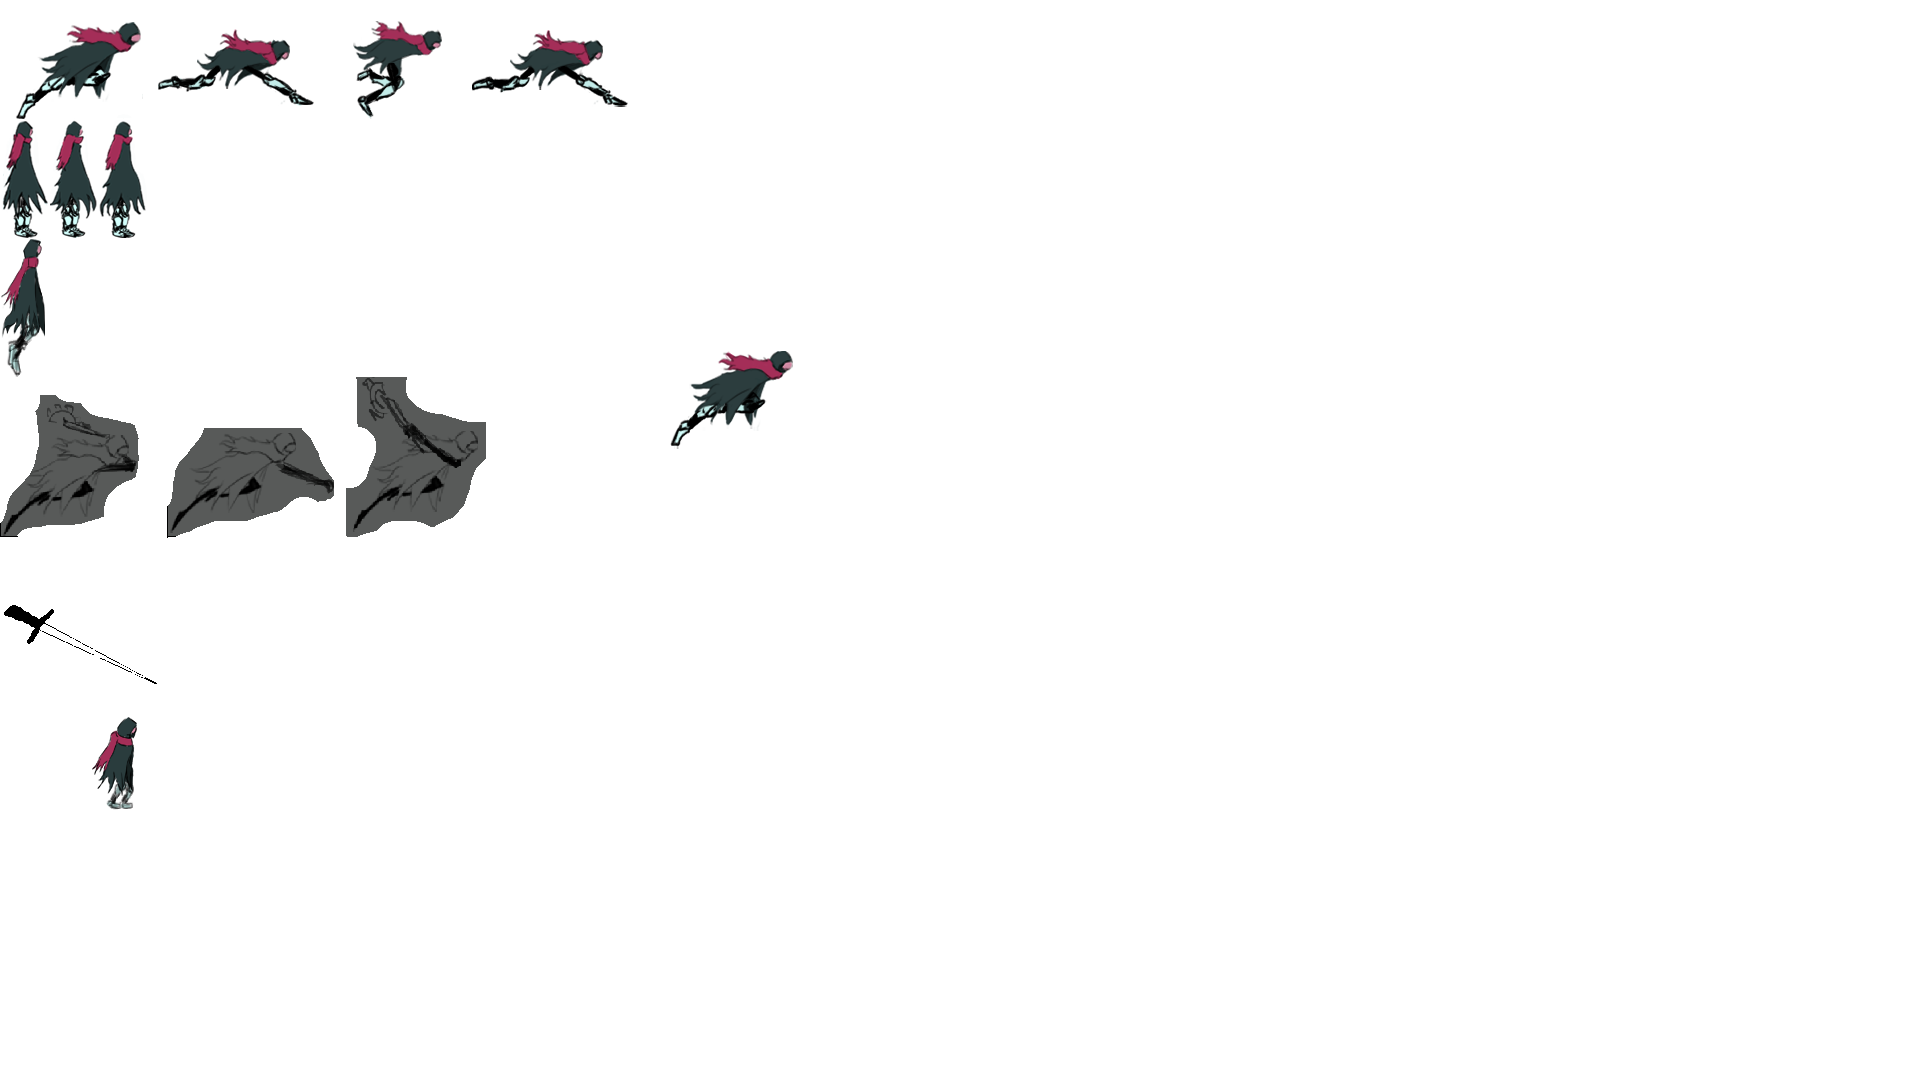
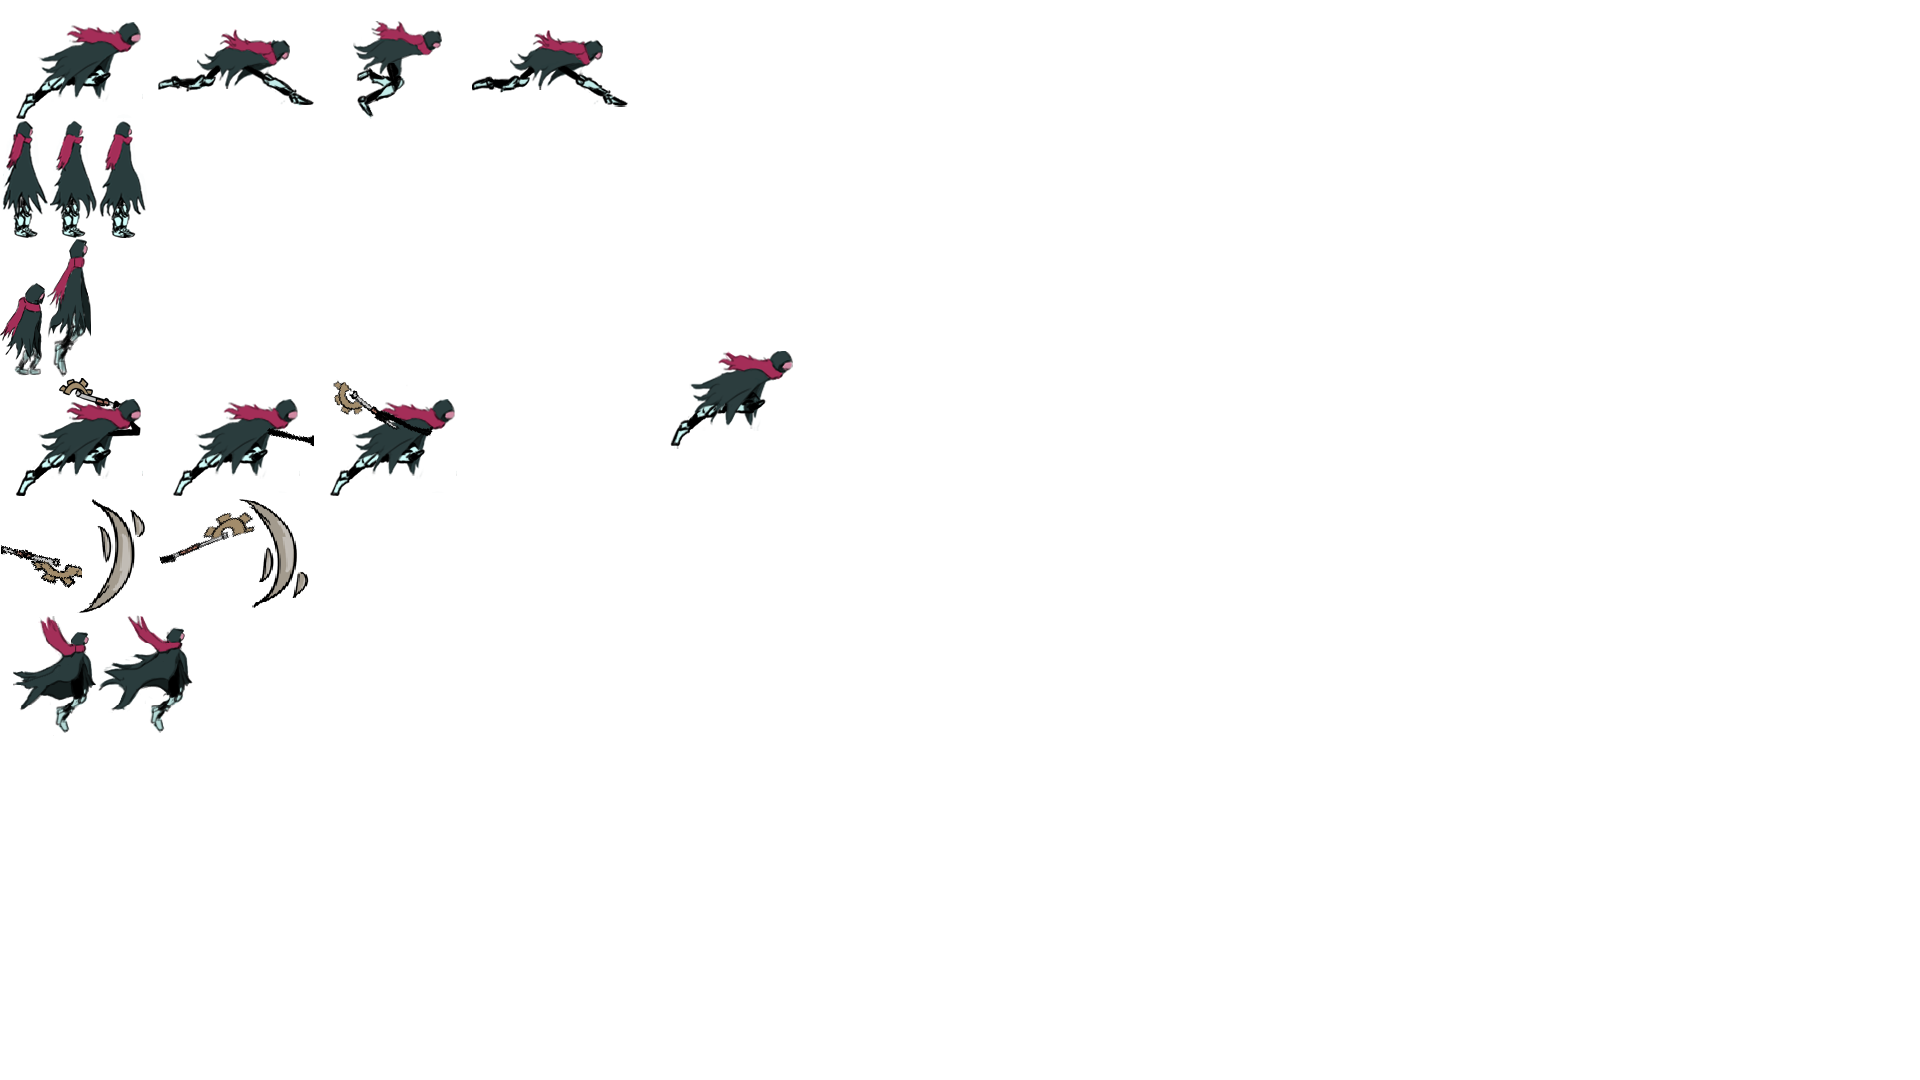
player animations done

Changed region(s): [[0.0, 0.2139, 0.25, 0.7333]]

diff --git a/projet-mini-studio/scr/Player.cpp b/projet-mini-studio/scr/Player.cpp
@@ -3,7 +3,8 @@
 Player::Player(Texture& tex, Map& map)
     : Entity(tex), grapple(500.0f, map), map(map), speed(450), velocity(Vector2f(0, 0)), canJump(true), jumpNum(0), canDash(true), dashing(false), dashDirection(Vector2f(0, 0)), lastInputDirection('N'), dashDuration(0), dashCooldown(0.8), dashTimer(0), grapplingTouched(false), leftButtonHold(false), grappleLength(0.0f)
 {
-   
+
+    attackSprite.setTexture(tex);
     speed = 450;
     velocity = Vector2f(0, 0);
     this->map = map;
@@ -17,6 +18,11 @@ Player::Player(Texture& tex, Map& map)
     }
     heartempty.setTexture(heartemptyTexure);
 
+    hurtbox.setRadius(50);
+    hurtbox.setFillColor(Color::Transparent);
+    hurtbox.setOutlineColor(Color::Red);
+    hurtbox.setOutlineThickness(1.f);
+
 }
 
 Player::Player(const Vector2f& size, const Color& color, Map& map)
@@ -26,11 +32,11 @@ Player::Player(const Vector2f& size, const Color& color, Map& map)
     velocity = Vector2f(0, 0);
     this->map = map;
     playerView.setSize(1920, 1080);
-    attackTexture.create(size.x * 1.5f, size.y * 1.5f);
+    //attackTexture.create(size.x * 1.5f, size.y * 1.5f);
     Image image;
     image.create(size.x * 1.5f, size.y * 1.5f, Color::Blue);
-    attackTexture.update(image);
-    attackSprite.setTexture(attackTexture);
+    /*attackTexture.update(image);
+    attackSprite.setTexture(attackTexture);*/
     if (!heartTexure.loadFromFile("assets/ui/heart.png")) {
         cerr << "Erreur lors du chargement du coeur." << endl;
     }
@@ -87,6 +93,7 @@ float calculateAngle(const Vector2f& point1, const Vector2f& point2) {
 
 void Player::update(float dt)
 {
+    hurtbox.setPosition(getSprite().getPosition().x - hurtbox.getRadius(), getSprite().getPosition().y - hurtbox.getRadius());
     invincibilityAfterHit(dt);
     handleGrapplePull(dt);
     handleMovement(dt);
@@ -104,7 +111,7 @@ void Player::updateCamera()
 
     cameraPosition.x = playerPosition.x;
 
-	cameraPosition.y = 540;
+    cameraPosition.y = 540;
 
     playerView.setCenter(cameraPosition);
 }
@@ -200,6 +207,7 @@ void Player::handleNormalMovement(float dt)
     float jumpCooldownTime = 0.4f;
     if ((Keyboard::isKeyPressed(Keyboard::Space) || Joystick::isButtonPressed(0, 0)) && canJump && jumpCooldownClock.getElapsedTime().asSeconds() >= jumpCooldownTime)
     {
+        jumped = true;
         onGround = false;
         velocity.y = -speed;
         jumpNum++;
@@ -324,7 +332,7 @@ void Player::handleInput(const Event& event, RenderWindow& window, float dt)
     float axisZ = Joystick::getAxisPosition(0, Joystick::Z);
     if (/*Mouse::isButtonPressed(Mouse::Left)*/ Keyboard::isKeyPressed(Keyboard::F) || axisZ < -50) {
         leftButtonHold = true;
-        if (grapple.isStuck()) 
+        if (grapple.isStuck())
         {
             Vector2f stuckPosition = grapple.getStuckPosition();
             Vector2f playerPosition = getSprite().getPosition();
@@ -333,7 +341,7 @@ void Player::handleInput(const Event& event, RenderWindow& window, float dt)
             direction /= grappleLength;
             velocity = direction * speed;
         }
-        else 
+        else
         {
             Vector2f startPosition = getSprite().getPosition();
             Vector2i mousePosition = Mouse::getPosition(window);
@@ -344,7 +352,7 @@ void Player::handleInput(const Event& event, RenderWindow& window, float dt)
             grapple.launch(startPosition, direction);
         }
     }
-    else 
+    else
     {
         leftButtonHold = false;
     }
@@ -646,15 +654,10 @@ void Player::draw(RenderWindow& window)
 }
 
 void Player::handleAttack(float dt) {
-    if ((Mouse::isButtonPressed(Mouse::Left) /*Keyboard::isKeyPressed(Keyboard::F)*/|| Joystick::isButtonPressed(0, 2)) && canAttack) {
+    if ((Mouse::isButtonPressed(Mouse::Left) /*Keyboard::isKeyPressed(Keyboard::F)*/ || Joystick::isButtonPressed(0, 2)) && canAttack) {
         attacking = true;
         canAttack = false;
         attackTimer = 0;
-
-        switch (lastInputDirection) {
-        case('L'): attackDirection = "left"; break;
-        case('R'): attackDirection = "right"; break;
-        }
     }
     attackTimer += dt;
     if (attackTimer >= attackCooldown) canAttack = true;
@@ -662,8 +665,15 @@ void Player::handleAttack(float dt) {
     //attackSprite.setPosition(getSprite().getPosition());
     if (attacking) {
         attackDuration += dt;
-        if (attackDuration < 0.3) getSprite().setTextureRect(attackingFrames[0]);
+        if (attackDuration < 0.3) {
+            getSprite().setTextureRect(attackingFrames[0]);
+            switch (lastInputDirection) {
+            case('L'): attackDirection = "left"; break;
+            case('R'): attackDirection = "right"; break;
+            }
+        }
         if (attackDuration >= 0.3 && attackDuration < 0.4) {
+
             attackHitboxActive = true;
             getSprite().setTextureRect(attackingFrames[1]);
         }
@@ -677,17 +687,6 @@ void Player::handleAttack(float dt) {
         }
         getSprite().setOrigin(getSprite().getTextureRect().getSize().x / 2, getSprite().getTextureRect().getSize().y / 2);
     }
-    /*if (attackDirection == "left") {
-        attackSprite.setPosition(getSprite().getPosition().x - getWidth() / 2
-            - (attackSprite.getLocalBounds().width * attackSprite.getScale().x),
-            getSprite().getPosition().y - (attackSprite.getLocalBounds().width * attackSprite.getScale().x) / 2);
-        lastAttackPosition = attackSprite.getPosition();
-    }
-    if (attackDirection == "right") {
-        attackSprite.setPosition(getSprite().getPosition().x + getWidth() / 2,
-            getSprite().getPosition().y - (attackSprite.getLocalBounds().width * attackSprite.getScale().x) / 2);
-        lastAttackPosition = attackSprite.getPosition();
-    }*/
     if (attackDirection == "left") {
         attackSprite.setPosition(getSprite().getPosition().x - attackSprite.getGlobalBounds().width, getSprite().getPosition().y);
         attackSprite.setScale(-1.f, 1.f);
@@ -742,57 +741,71 @@ void Player::setTexture(Texture& tex, int frameWidth, int frameHeight, int _tota
     frameHeightResize = 119;
     totalFrames = 3;
     for (int i = 0; i < totalFrames; i++) {
-        standingFrames.emplace_back(i* frameWidthResize, 119, frameWidthResize, frameHeightResize);
+        standingFrames.emplace_back(i * frameWidthResize, 119, frameWidthResize, frameHeightResize);
     }
     //JUMPING
     frameWidthResize = 46;
     frameHeightResize = 139;
-    totalFrames = 1;
+    totalFrames = 2;
     for (int i = 0; i < totalFrames; i++) {
-        jumpingFrames.emplace_back(i * frameWidthResize, 238, frameWidthResize, frameHeightResize);
+        jumpingFrames.emplace_back(i * frameWidthResize, 238, frameWidthResize, frameHeightResize);  // METTRE i POUR FULL ANIMATION
     }
     //ATTACKING
-    frameWidthResize = 167;
-    frameHeightResize = 159;
+    frameWidthResize = 157;
+    frameHeightResize = 119;
     totalFrames = 3;
     for (int i = 0; i < totalFrames; i++) {
         attackingFrames.emplace_back(i * frameWidthResize, 377, frameWidthResize, frameHeightResize);
     }
     //ATTACK HITBOX
-    attackTexture = tex;
-    attackSprite.setTexture(attackTexture);
-    attackSprite.setTextureRect(IntRect(0, 536, frameWidthResize, frameHeightResize));
+    totalFrames = 2;
+    for (int i = 0; i < totalFrames; i++) {
+        attackHitboxFrames.emplace_back(i * frameWidthResize, 496, frameWidthResize, frameHeightResize);
+    }
+    attackSprite.setTextureRect(attackHitboxFrames[0]);
     attackSprite.setOrigin(attackSprite.getTextureRect().getSize().x / 2, attackSprite.getTextureRect().getSize().y / 2);
-    attackSprite.setScale(0.75f, 0.75f);
+    //FALLING
+    frameWidthResize = 97;
+    frameHeightResize = 119;
+    totalFrames = 2;
+    for (int i = 0; i < totalFrames; i++) {
+        fallingFrames.emplace_back(i * frameWidthResize, 615, frameWidthResize, frameHeightResize);
+    }
+    fallingFrames.emplace_back(fallingFrames[0]);
+    fallingFrames.emplace_back(fallingFrames[1]);
+
     frames = standingFrames;
     getSprite().setTextureRect(frames[currentFrame]);
-    getSprite().setOrigin(getSprite().getTextureRect().getSize().x / 2, getSprite().getTextureRect().getSize().y / 2); 
+    getSprite().setOrigin(getSprite().getTextureRect().getSize().x / 2, getSprite().getTextureRect().getSize().y / 2);
 }
 
 void Player::animate(float deltaTime) {
     elapsedTime += deltaTime;
+    if (lastInputDirection == 'L') {
+        getSprite().setScale(-1.f, 1.f);
+    }
+    if (lastInputDirection == 'R') {
+        getSprite().setScale(1.f, 1.f);
+    }
     if (elapsedTime >= frameTime && !frames.empty()) {
         elapsedTime = 0.0f;
-        if (velocity.x > 0) {
+        if (velocity.x > 0 && velocity.y <= 0) {
             if (frames != runningFrames || getSprite().getScale() != Vector2f(1.f, 1.f)) {
                 currentFrame = 0; //reset l'animation
             }
             frames = runningFrames;
             totalFrames = 4;
-            if (!attacking) getSprite().setScale(1.f, 1.f);
+            //if (!attacking) getSprite().setScale(1.f, 1.f);
         }
-        else if (velocity.x < 0) {
+        else if (velocity.x < 0 && velocity.y <= 0) {
             if (frames != runningFrames || getSprite().getScale() != Vector2f(-1.f, 1.f)) {
                 currentFrame = 0; //reset l'animation
             }
             frames = runningFrames;
             totalFrames = 4;
-            if (!attacking) getSprite().setScale(-1.f, 1.f);
+            //if (!attacking) getSprite().setScale(-1.f, 1.f);
         }
         else {
-            if (frames != standingFrames) {
-                currentFrame = 0; //reset l'animation
-            }
             frames = standingFrames;
             totalFrames = 3;
         }
@@ -802,11 +815,19 @@ void Player::animate(float deltaTime) {
             totalFrames = 1;
         }
         if (velocity.y < 0) {
-            if (frames != jumpingFrames) {
-                currentFrame = 0; //reset l'animation
-            }
             frames = jumpingFrames;
             totalFrames = 1;
+            if (jumped) {
+                frames.erase(frames.begin() + 1, frames.end());
+                jumped = false;
+            }
+            else {
+                frames.erase(frames.begin(), frames.begin() + 1);
+            }
+        }
+        if (velocity.y > 0) {
+            frames = fallingFrames;
+            totalFrames = 2;
         }
         if (!attacking) {
             currentFrame = (currentFrame + 1) % totalFrames;

diff --git a/projet-mini-studio/scr/EntityManager.cpp b/projet-mini-studio/scr/EntityManager.cpp
@@ -74,7 +74,7 @@ void EntityManager::generateEnemies(Map& map) {
 
 void EntityManager::destroyEntity() {
 	enemyVector.erase(remove_if(enemyVector.begin(), enemyVector.end(),
-			[](const shared_ptr<Enemy>& enemy) { return enemy->toBeDeleted; }),
+		[](const shared_ptr<Enemy>& enemy) { return enemy->toBeDeleted; }),
 		enemyVector.end());
 	itemVector.erase(remove_if(itemVector.begin(), itemVector.end(),
 		[](const shared_ptr<Item>& item) { return item->toBeDeleted; }),
@@ -94,14 +94,14 @@ void EntityManager::collisions() {
 				enemy->invincible = true;
 			}
 		}
-		if (player->getSprite().getGlobalBounds().intersects(enemy->getSprite().getGlobalBounds()) && !player->invincible) {
+		if (player->/*getSprite()*/hurtbox.getGlobalBounds().intersects(enemy->getSprite().getGlobalBounds()) && !player->invincible) {
 			player->invincible = true;
 			player->hp--;
 		}
 	}
 	for (auto& checkpoint : checkpointVector) {
 		if (player->getSprite().getGlobalBounds().intersects(checkpoint->getSprite().getGlobalBounds())) {
-			checkpoint->respawnPoint = Vector2f(checkpoint->getPosX(), checkpoint->getPosY() - player->getHeight()/2 + checkpoint->getHeight()/2);
+			checkpoint->respawnPoint = Vector2f(checkpoint->getPosX(), checkpoint->getPosY() - player->getHeight() / 2 + checkpoint->getHeight() / 2);
 			save.saveCheckpoint("assets/checkpoint/player.txt", player, checkpoint);
 			/*std::for_each(checkpointVector.begin(), checkpointVector.end(), [](std::shared_ptr<Checkpoint>& obj) {
 				if (obj->activated) {

diff --git a/projet-mini-studio/include/Player.hpp b/projet-mini-studio/include/Player.hpp
@@ -19,7 +19,7 @@ public:
     void update(float dt);
     void draw(RenderWindow& window);
     void handleInput(const Event& event, RenderWindow& window, float dt);
-	void isSwingColliding(Vector2f& newPos, float dt);
+    void isSwingColliding(Vector2f& newPos, float dt);
     Sprite getAttackHitBox();
     bool isAttacking();
     int getMaxHp();
@@ -41,9 +41,15 @@ public:
     std::vector<IntRect> standingFrames;
     std::vector<IntRect> runningFrames;
     std::vector<IntRect> jumpingFrames;
+    bool jumped = false;
     std::vector<IntRect> attackingFrames;
+    std::vector<IntRect> attackHitboxFrames;
+    std::vector<IntRect> fallingFrames;
+
     void attackFrameSwap();
     IntRect formerFrame0;
+
+    CircleShape hurtbox;
 
 private:
     //fonction du update
@@ -105,13 +111,12 @@ private:
     bool canAttack = true;
     bool attacking = false;
     bool attackHitboxActive = false;
-    Texture attackTexture;
     Sprite attackSprite;
     string attackDirection = "right";
     float attackDuration = 0;
-    float attackCooldown = 1;
+    float attackCooldown = 0;
     float attackTimer = 0;
-	bool onGround = true;
+    bool onGround = true;
     Vector2f lastAttackPosition;
 };
 

diff --git a/projet-mini-studio/scr/Entity.cpp b/projet-mini-studio/scr/Entity.cpp
@@ -33,15 +33,15 @@ Sprite& Entity::getSprite()
 }
 
 float Entity::getHeight() {
-    return getSprite().getLocalBounds().height * getSprite().getScale().y;
+	return getSprite().getLocalBounds().height * getSprite().getScale().y;
 }
 float Entity::getWidth() {
-    return getSprite().getLocalBounds().width * getSprite().getScale().x;
+	return getSprite().getLocalBounds().width * getSprite().getScale().x;
 }
 
 Texture& Entity::getTexture()
 {
-    return texture;
+	return texture;
 }
 
 const Sprite& Entity::getSpriteConst() const
@@ -61,7 +61,7 @@ void Entity::draw(RenderWindow& window)
 void Entity::invincibilityAfterHit(float dt) {
 	if (invincible) {
 		invincibilityTimer += dt;
-		getSprite().setColor(Color::Black);
+		getSprite().setColor(Color::Red);
 	}
 	if (invincibilityTimer > 1) {
 		getSprite().setColor(Color::White);
@@ -84,7 +84,7 @@ void Entity::setPosY(float newPosY) {
 }
 
 void Entity::setTexture(Texture& tex, int frameWidth, int frameHeight, int totalFrames, float frameDuration) {
-	
+
 }
 void Entity::animate(float deltaTime) {
 
